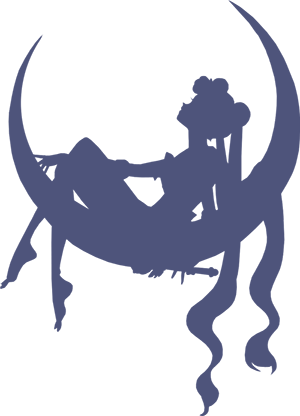
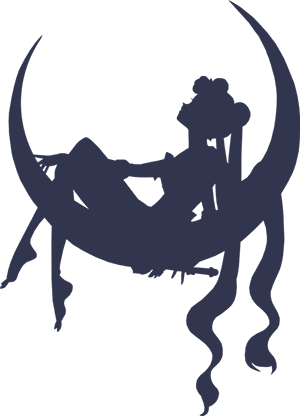
Darkened and changed image

diff --git a/styles.css b/styles.css
@@ -15,7 +15,7 @@ body {
 .header {
   position: fixed; width: 300px; height: 480px; left: calc(50% + 250px); top: 100px; z-index: 1;}
 .header:before {
-  content: url(https://image.myanimelist.net/ui/fkLITaJTefafxFKPGRzngugMyEX13ps3hq4aKHOIBB5ZXXYjF4jsNJpR0LzOs4Yn);
+  content: url(https://i.ibb.co/7gndgs6/image.png);
   display: block; text-align: right;}
 .header .header-menu.other {
   display: block; top: unset; bottom: 98px; left: -10px;}
